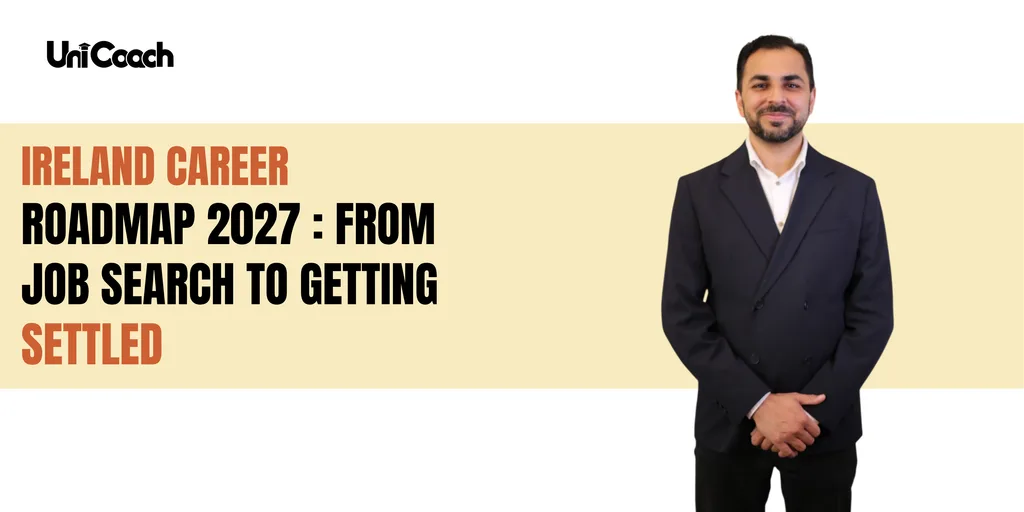
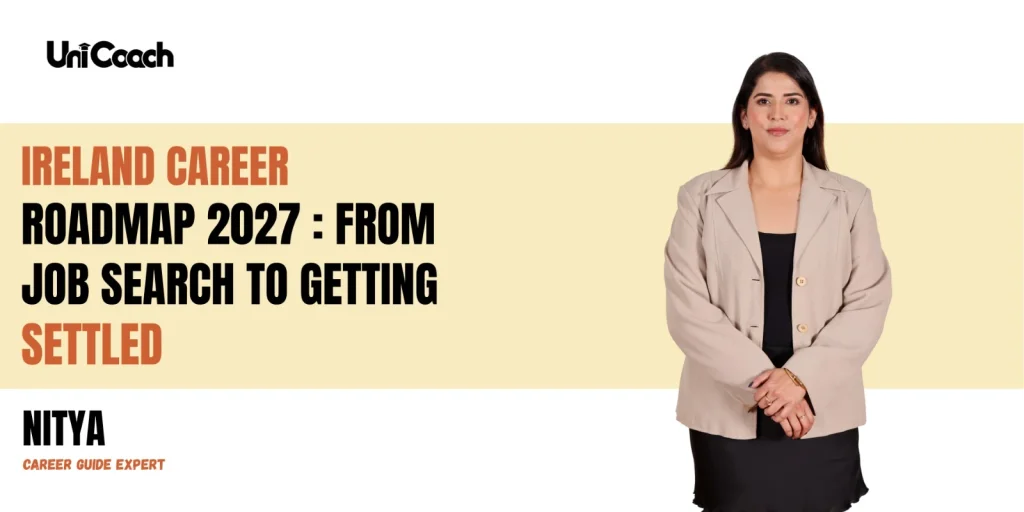
Feature Nitya as the Ireland career mentor
Replace Rishi's photos, event banner and copy with Nitya across the
homepage, UniCoach page and events, and show initials instead of stock
photos in the student testimonials.

diff --git a/Unicoach/frontend/src/unicoach/components/StudentTestimonialSection.jsx b/Unicoach/frontend/src/unicoach/components/StudentTestimonialSection.jsx
@@ -12,40 +12,38 @@ const TESTIMONIALS = [
   {
     quote: 'Aarav helped me understand the exact SOP format TU Munich expects. Got my admit letter in just 2 months after our session!',
     name: 'Rohan Mehta',
-    role: 'M.Sc. Computer Science • TU Munich Admit',
-    image: 'https://images.unsplash.com/photo-1500648767791-00dcc994a43e?w=160&auto=format&fit=crop&q=80'
+    role: 'M.Sc. Computer Science • TU Munich Admit'
   },
   {
     quote: 'Booked a 1:1 with an Oxford senior. Best ₹499 I ever spent. Crystal clear guidance on my personal statement and interview prep.',
     name: 'Priya Sharma',
-    role: 'MPP Candidate • University of Oxford',
-    image: 'https://images.unsplash.com/photo-1573496359142-b8d87734a5a2?w=160&auto=format&fit=crop&q=80'
+    role: 'MPP Candidate • University of Oxford'
   },
   {
     quote: 'The visa prep session saved me from 3 common mistakes I didn\'t even know about. Cleared my F1 interview on the first attempt!',
     name: 'Ananya Singh',
-    role: 'MS in Data Science • Columbia University',
-    image: 'https://images.unsplash.com/photo-1534528741775-53994a69daeb?w=160&auto=format&fit=crop&q=80'
+    role: 'MS in Data Science • Columbia University'
   },
   {
     quote: 'My mentor reviewed my SOP line by line and rewrote the opening paragraph. The difference was night and day. Highly recommended.',
     name: 'Vikram Reddy',
-    role: 'M.Eng. Mechanical • RWTH Aachen Admit',
-    image: 'https://images.unsplash.com/photo-1507003211169-0a1dd7228f2d?w=160&auto=format&fit=crop&q=80'
+    role: 'M.Eng. Mechanical • RWTH Aachen Admit'
   },
   {
     quote: 'Was confused between 5 universities. The Priority DM option let me get answers in 12 hours without booking a full call. Super convenient!',
     name: 'Meera Joshi',
-    role: 'MS in AI • University of Toronto Admit',
-    image: 'https://images.unsplash.com/photo-1580489944761-15a19d654956?w=160&auto=format&fit=crop&q=80'
+    role: 'MS in AI • University of Toronto Admit'
   },
   {
     quote: 'UniCoach connected me with someone who actually studied at my dream campus. No consultant could give me that insider perspective.',
     name: 'Arjun Kapoor',
-    role: 'MBA Candidate • HEC Paris',
-    image: 'https://images.unsplash.com/photo-1492562080023-ab3db95bfbce?w=160&auto=format&fit=crop&q=80'
+    role: 'MBA Candidate • HEC Paris'
   }
 ];
+
+// "Rohan Mehta" -> "RM"
+const getInitials = (name) =>
+  name.split(/\s+/).filter(Boolean).slice(0, 2).map((part) => part[0].toUpperCase()).join('');
 
 // Auto-scroll speed in px per second
 const AUTO_SCROLL_SPEED = 28;
@@ -65,13 +63,12 @@ const TestimonialCard = ({ item, hidden }) => (
       </blockquote>
 
       <figcaption className="flex items-center gap-2.5 pt-3 mt-3 border-t border-slate-200/70">
-        <img
-          src={item.image}
-          alt={hidden ? '' : item.name}
-          className="w-8 h-8 rounded-full object-cover ring-2 ring-white shadow-xs shrink-0"
-          loading="lazy"
-          draggable="false"
-        />
+        <span
+          className="w-8 h-8 rounded-full bg-gradient-to-br from-[#DE5C2B] to-[#EAB308] text-white font-outfit font-black text-[11px] flex items-center justify-center ring-2 ring-white shadow-xs shrink-0 select-none"
+          aria-hidden="true"
+        >
+          {getInitials(item.name)}
+        </span>
         <div className="min-w-0">
           <div className="font-outfit text-[13px] font-bold text-slate-950 leading-tight truncate">
             {item.name}

diff --git a/Unicoach/backend/scripts/addIrelandCareerEvent.js b/Unicoach/backend/scripts/addIrelandCareerEvent.js
@@ -3,7 +3,7 @@ const mongoose = require('mongoose');
 const Event = require('../models/Event');
 const User = require('../models/User');
 
-// Creates the "Ireland Career Roadmap 2027" masterclass (Rishi) as an UNPUBLISHED draft.
+// Creates the "Ireland Career Roadmap 2027" masterclass (Nitya) as an UNPUBLISHED draft.
 // Set the date/time in Admin → Events and publish it from there.
 const SLUG = 'ireland-career-roadmap-2027';
 
@@ -18,7 +18,7 @@ mongoose.connect(process.env.MONGO_URI).then(async () => {
   const created = await Event.create({
     title: 'Ireland Career Roadmap 2027: From Job Search to Getting Settled',
     slug: SLUG,
-    body: '<p>Meet Rishi, your Ireland career guide expert, in this masterclass on landing a job in Ireland and settling in after your studies.</p>',
+    body: '<p>Meet Nitya, your Ireland career guide expert, in this masterclass on landing a job in Ireland and settling in after your studies.</p>',
     sections: [
       { type: 'heading', level: 2, content: 'What You Will Learn' },
       { type: 'paragraph', content: 'How the Irish job market works for international graduates, CV and LinkedIn tips for Irish employers, the Stamp 1G and Critical Skills work permit routes, and practical steps to get settled: housing, PPS number and banking.' }
@@ -27,9 +27,9 @@ mongoose.connect(process.env.MONGO_URI).then(async () => {
     author: admin ? admin._id : null,
     published: false,
     location: 'Online Masterclass',
-    description: 'Meet Rishi, Career Guide Expert. Ireland job search strategy, Stamp 1G & work permits, and getting settled in 2027.',
+    description: 'Meet Nitya, Career Guide Expert. Ireland job search strategy, Stamp 1G & work permits, and getting settled in 2027.',
     category: 'webinar',
-    speaker: 'Rishi (Career Guide Expert, Ireland)',
+    speaker: 'Nitya (Career Guide Expert, Ireland)',
     tags: ['Ireland', 'Careers', 'Jobs', 'Stamp 1G', 'Work Permit'],
     registrationCount: 0
   });

diff --git a/Unicoach/frontend/src/utils/teamMentors.js b/Unicoach/frontend/src/utils/teamMentors.js
@@ -9,11 +9,11 @@ export const TEAM_MENTORS = [
     portrait: '/images/mentors/prachi_portrait.webp',
   },
   {
-    name: 'Rishi',
+    name: 'Nitya',
     role: 'Career Guide Expert · Ireland',
     country: 'Ireland',
-    src: '/images/mentors/thumbs/rishi_ireland_career.webp',
-    portrait: '/images/mentors/rishi_portrait.webp',
+    src: '/images/mentors/thumbs/nitya_ireland_career.webp',
+    portrait: '/images/mentors/nitya_portrait.webp',
   },
   {
     name: 'Manan',
@@ -24,5 +24,5 @@ export const TEAM_MENTORS = [
   },
 ];
 
-// "Prachi, Rishi & Manan"
+// "Prachi, Nitya & Manan"
 export const TEAM_MENTOR_NAMES = `${TEAM_MENTORS.slice(0, -1).map((m) => m.name).join(', ')} & ${TEAM_MENTORS.at(-1).name}`;

diff --git a/Unicoach/frontend/src/components/FinalCTA.jsx b/Unicoach/frontend/src/components/FinalCTA.jsx
@@ -206,8 +206,8 @@ export const FinalCTA = ({ onOpenModal }) => {
             >
               <div className="w-8 h-8 sm:w-10 sm:h-10 lg:w-11 lg:h-11 rounded-full p-[2px] bg-gradient-to-r from-fuchsia-400 to-pink-500 shadow-[0_0_16px_rgba(232,121,249,0.95)]">
                 <img
-                  src="/images/mentors/thumbs/rishi_ireland_career.webp"
-                  alt="Rishi, Ireland Career Guide Expert"
+                  src="/images/mentors/thumbs/nitya_ireland_career.webp"
+                  alt="Nitya, Ireland Career Guide Expert"
                   className="w-full h-full rounded-full object-cover"
                 />
               </div>

diff --git a/Unicoach/frontend/src/utils/eventHelpers.js b/Unicoach/frontend/src/utils/eventHelpers.js
@@ -28,7 +28,7 @@ export const eventPath = (ev) => {
 
 // Speaker face photos, matched by first name (falls back to the initial when there's no photo)
 const SPEAKER_PHOTOS = {
-  rishi: '/images/mentors/thumbs/rishi_ireland_career.webp',
+  nitya: '/images/mentors/thumbs/nitya_ireland_career.webp',
   manan: '/images/mentors/thumbs/manan_australia.webp',
   prachi: '/images/mentors/thumbs/prachi_cybersecurity.webp',
   joshua: '/images/mentors/thumbs/speaker_joshua.webp',

diff --git a/Unicoach/frontend/src/unicoach/components/StudentFlashSection.jsx b/Unicoach/frontend/src/unicoach/components/StudentFlashSection.jsx
@@ -31,7 +31,7 @@ const STEPS = [
     number: '01',
     title: 'Browse Verified Seniors',
     shortDesc: 'Filter by university, country, degree, or service type — every mentor is admin-verified.',
-    fullDesc: 'Explore Prachi, Rishi, and Manan, and find guidance by mentor name, expertise, or destination country.'
+    fullDesc: 'Explore Prachi, Nitya, and Manan, and find guidance by mentor name, expertise, or destination country.'
   },
   {
     id: 1,

diff --git a/Unicoach/frontend/src/app/events/page.jsx b/Unicoach/frontend/src/app/events/page.jsx
@@ -24,7 +24,7 @@ import { eventPath, getSpeakerPhoto, toAbsoluteUrl } from '../../utils/eventHelp
 
 // Large portraits of our event hosts (cut from their event banners); Admin → Events "Speaker photo" overrides
 const SPEAKER_PORTRAITS = {
-    rishi: '/images/mentors/rishi_portrait.webp',
+    nitya: '/images/mentors/nitya_portrait.webp',
     manan: '/images/mentors/manan_portrait.webp',
     prachi: '/images/mentors/prachi_portrait.webp',
 };
